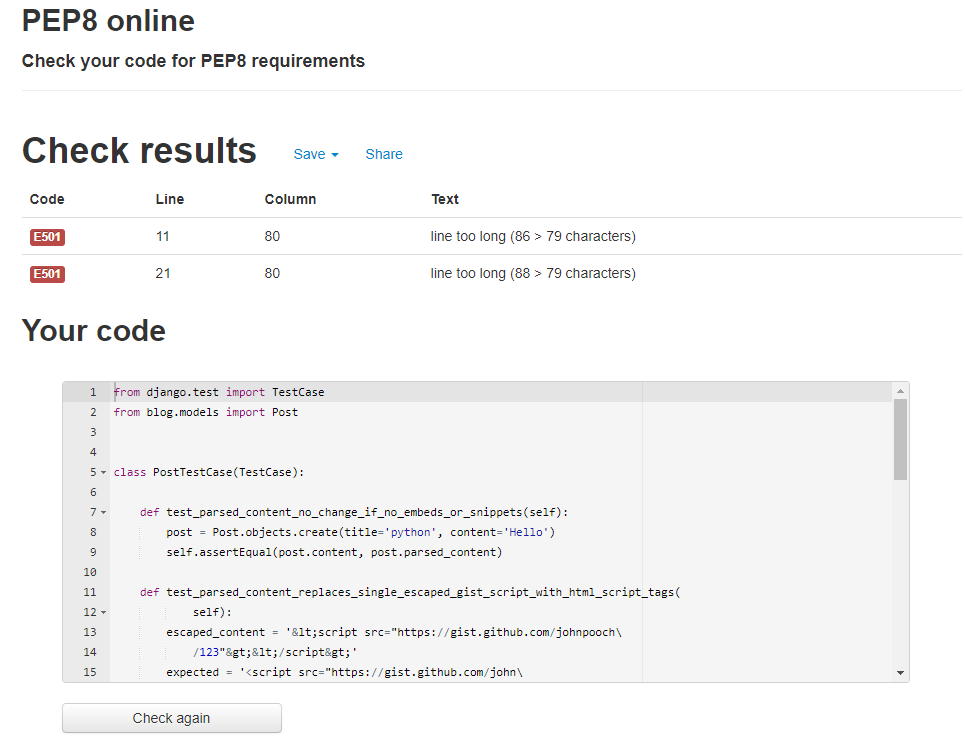
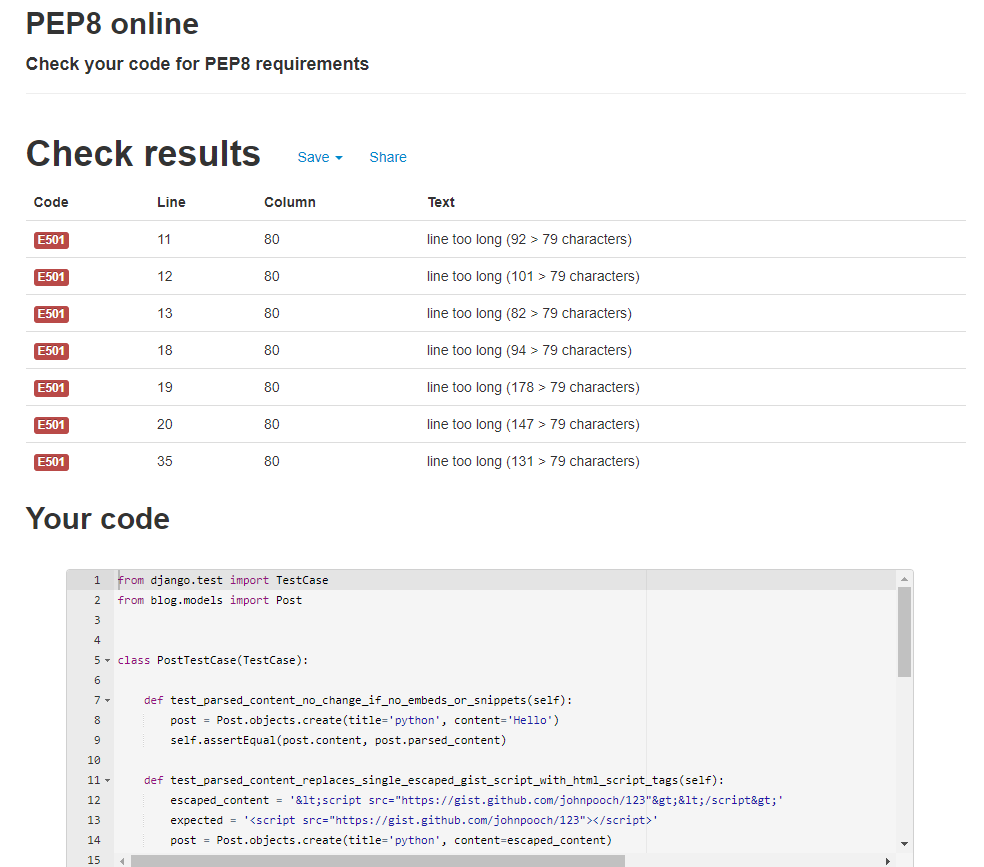
fix issue with line too long errors and tests breaking

diff --git a/blog/tests/test_models.py b/blog/tests/test_models.py
@@ -8,25 +8,16 @@ class PostTestCase(TestCase):
         post = Post.objects.create(title='python', content='Hello')
         self.assertEqual(post.content, post.parsed_content)
 
-    def test_parsed_content_replaces_single_escaped_gist_script_with_html_script_tags(
-            self):
-        escaped_content = '&lt;script src="https://gist.github.com/johnpooch\
-            /123"&gt;&lt;/script&gt;'
-        expected = '<script src="https://gist.github.com/john\
-            pooch/123"></script>'
+    def test_parsed_content_replaces_single_escaped_gist_script_with_html_script_tags(self):
+        escaped_content = '&lt;script src="https://gist.github.com/johnpooch/123"&gt;&lt;/script&gt;'
+        expected = '<script src="https://gist.github.com/johnpooch/123"></script>'
         post = Post.objects.create(title='python', content=escaped_content)
         result = post.parsed_content
         self.assertEqual(expected, result)
 
-    def test_parsed_content_replaces_multiple_escaped_gist_script_with_html_script_tags(
-            self):
-        escaped_content = '&lt;script src="https://gist.github.com/john\
-        pooch/123"&gt;&lt;/script&gt;text&lt;script src="https://gist\
-            .github.com/johnpooch\
-                /456"&gt;&lt;/script&gt;'
-        expected = '<script src="https://gist.github.com/johnpooch/123">\
-            </script>text<script src="https://gist.github.com/\
-                johnpooch/456"></script>'
+    def test_parsed_content_replaces_multiple_escaped_gist_script_with_html_script_tags(self):
+        escaped_content = '&lt;script src="https://gist.github.com/johnpooch/123"&gt;&lt;/script&gt;text&lt;script src="https://gist.github.com/johnpooch/456"&gt;&lt;/script&gt;'
+        expected = '<script src="https://gist.github.com/johnpooch/123"></script>text<script src="https://gist.github.com/johnpooch/456"></script>'
         post = Post.objects.create(title='python', content=escaped_content)
         result = post.parsed_content
         self.assertEqual(expected, result)
@@ -41,8 +32,7 @@ class PostTestCase(TestCase):
     def test_parsed_content_replaces_multiple_code_snippet_with_html_tags(
             self):
         content = "`code snippet`text`code snippet`"
-        expected = '<span class="inline-code-snippet">code snippet</span>text\
-            <span class="inline-code-snippet">code snippet</span>'
+        expected = '<span class="inline-code-snippet">code snippet</span>text<span class="inline-code-snippet">code snippet</span>'
         post = Post.objects.create(title='python', content=content)
         result = post.parsed_content
         self.assertEqual(expected, result)

diff --git a/TESTING.md b/TESTING.md
@@ -26,34 +26,33 @@ The W3C Markup Validator and W3C CSS Validator were used to validate every page 
 
 -   ## [Pep8 validation](http://pep8online.com/)
 
-    - All python files have been passed through the pep8online validation service. Only one file contains errors and that is `test_models.py`. The two errors present in this file are line too long errors for the function names. From my research, it is not good practice to split the name of a function so I have left them on one line.
+    - All python files have been passed through the pep8online validation service. Only one file contains errors and that is `test_models.py`. There are 7 'line too long' errors in this file. From my research, it is not good practice to split the name of a function so I have left them on one line. The 5 other errors occur in the test logic. I tried splitting the `escaped_content` and `expected_content` over several lines. This removed the 'line too long' errors but it broke my test cases so I reverted the changes to allow the tests to work as intended.
 
         - models.py
 
-        - ![image](media/testing_screenshots/modelspy.png)
+        ![image](media/testing_screenshots/modelspy.png)
 
         - admin.py
         
-        - ![image](media/testing_screenshots/adminpy.png)
+        ![image](media/testing_screenshots/adminpy.png)
 
-        - apps.py.py
+        - apps.py
         
-        - ![image](media/testing_screenshots/appspy.png)
+        ![image](media/testing_screenshots/appspy.png)
 
         - forms.py
         
-        - ![image](media/testing_screenshots/formspy.png)
+        ![image](media/testing_screenshots/formspy.png)
 
         - test_models.py
         
-        - ![image](media/testing_screenshots/testspy.png)
+        ![image](media/testing_screenshots/testspy.png)
 
         - urls.py
         
-        - ![image](media/testing_screenshots/urlspy.png)
+        ![image](media/testing_screenshots/urlspy.png)
 
         - views.py
         
-        - ![image](media/testing_screenshots/viewspy.png)
+        ![image](media/testing_screenshots/viewspy.png)
 
-        
